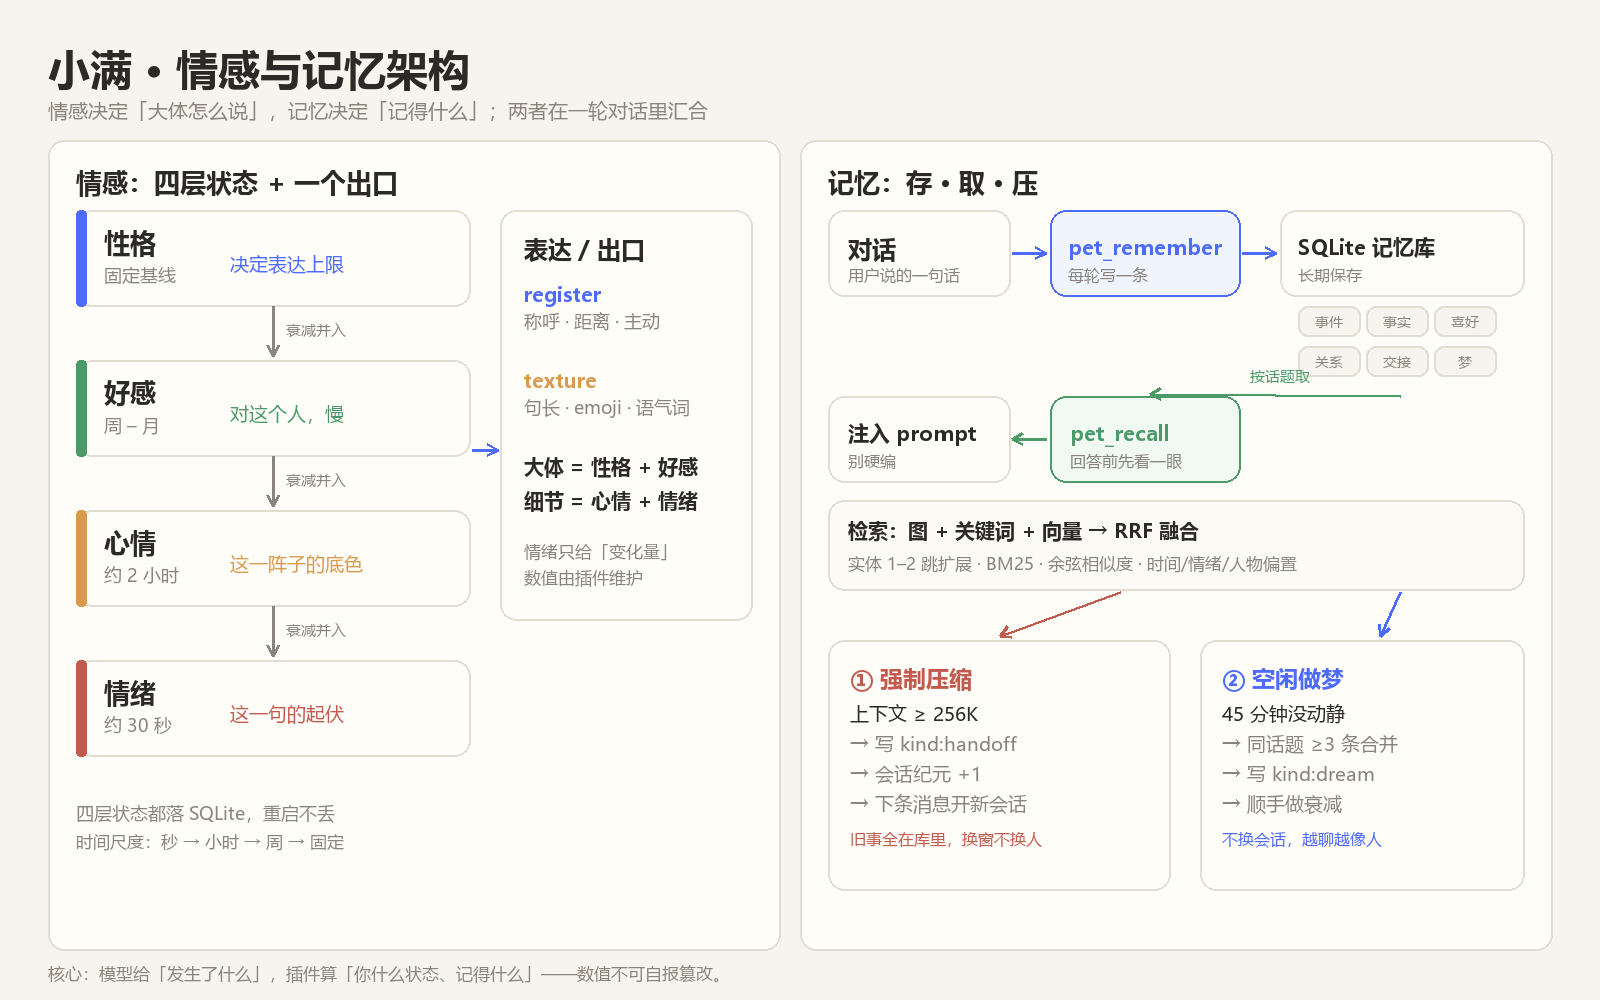
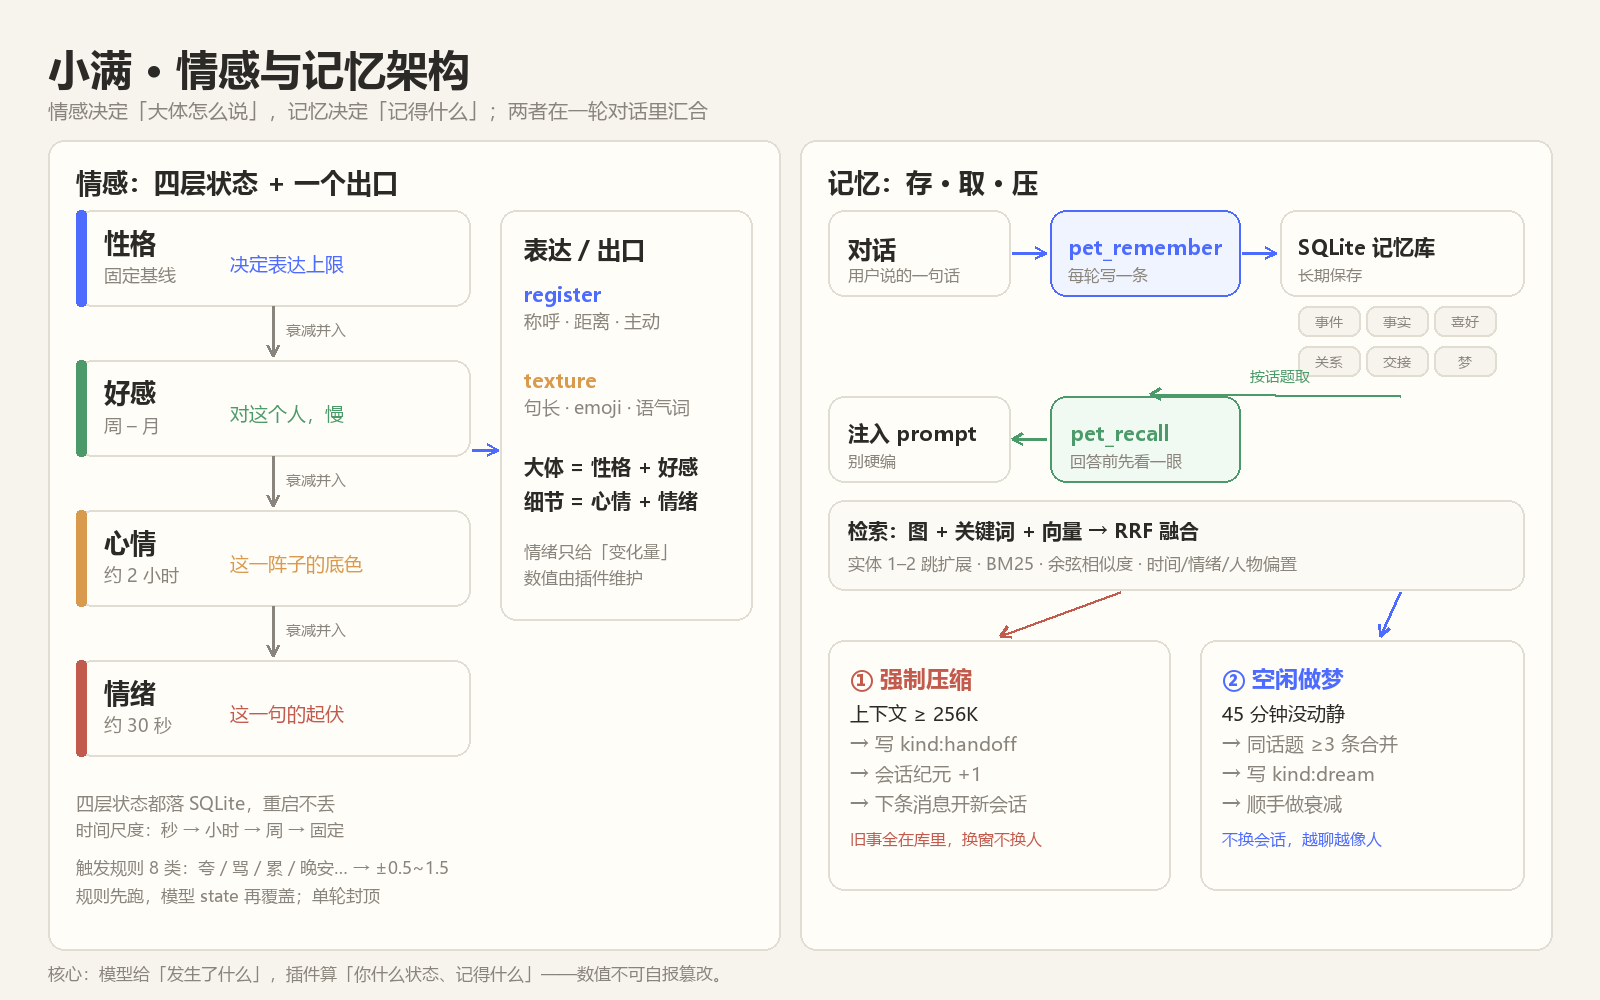
feat(emotion): 补全衰减曲线与触发规则（8 类关键词），更新架构图与文档

Changed region(s): [[0.0312, 0.775, 0.25, 0.899]]

diff --git a/packages/core/src/modules/triggers.js b/packages/core/src/modules/triggers.js
@@ -1,0 +1,41 @@
+// src/modules/triggers.js — 情绪触发规则（确定性关键词层）
+// 作用：给“这一轮发生了什么”一个兜底判断，避免全靠模型自报。
+// 每条规则给一点变化量，实际入账时按 0.5 缩放，防止和模型 state 双重计入。
+
+export const RULES = [
+  { id: 'praise', test: /夸|喜欢你|爱你|想你|抱抱|贴贴|真好/, delta: { mood: 2, affection: 1 }, label: '开心' },
+  { id: 'insult', test: /滚|讨厌|闭嘴|烦死你|废物|骂/, delta: { mood: -3, affection: -1 }, label: '生气' },
+  { id: 'apology', test: /对不起|我错了|抱歉|别生气/, delta: { mood: 1, affection: 1 }, label: '松快' },
+  { id: 'coquette', test: /嘛|好不好|陪我|撒娇|求你了/, delta: { mood: 1, affection: 1 }, label: '松快' },
+  { id: 'tired', test: /累|加班|难受|想哭|撑不住|烦死/, delta: { mood: -2, energy: -2 }, label: '低落' },
+  { id: 'goodnews', test: /开心|太好了|成功了|过了|升职|中奖/, delta: { mood: 2 }, label: '开心' },
+  { id: 'night', test: /晚安|睡了|困了|去睡/, delta: { energy: -1 }, label: '平静' },
+  { id: 'reunion', test: /好久不见|想你了|终于见到/, delta: { mood: 2, affection: 1 }, label: '开心' },
+];
+
+const SCALE = 0.5;
+const round = (n) => (n >= 0 ? Math.round(n) : -Math.round(-n));
+
+/**
+ * 匹配规则，返回 {delta, labels, hits}
+ * 最多命中 max 条，delta 已按 0.5 缩放并取整。
+ */
+export function matchTriggers(text, max = 2) {
+  const s = String(text ?? '');
+  const hits = RULES.filter((r) => r.test.test(s)).slice(0, max);
+  if (!hits.length) return { delta: null, labels: [], hits: [] };
+
+  const delta = { mood: 0, energy: 0, affection: 0 };
+  for (const h of hits) {
+    for (const k of Object.keys(delta)) {
+      delta[k] += round((h.delta[k] || 0) * SCALE);
+    }
+  }
+  for (const k of Object.keys(delta)) if (!delta[k]) delete delta[k];
+
+  return {
+    delta: Object.keys(delta).length ? delta : null,
+    labels: [...new Set(hits.map((h) => h.label).filter(Boolean))],
+    hits: hits.map((h) => h.id),
+  };
+}

diff --git a/packages/plugin/core/modules/triggers.js b/packages/plugin/core/modules/triggers.js
@@ -1,0 +1,41 @@
+// src/modules/triggers.js — 情绪触发规则（确定性关键词层）
+// 作用：给“这一轮发生了什么”一个兜底判断，避免全靠模型自报。
+// 每条规则给一点变化量，实际入账时按 0.5 缩放，防止和模型 state 双重计入。
+
+export const RULES = [
+  { id: 'praise', test: /夸|喜欢你|爱你|想你|抱抱|贴贴|真好/, delta: { mood: 2, affection: 1 }, label: '开心' },
+  { id: 'insult', test: /滚|讨厌|闭嘴|烦死你|废物|骂/, delta: { mood: -3, affection: -1 }, label: '生气' },
+  { id: 'apology', test: /对不起|我错了|抱歉|别生气/, delta: { mood: 1, affection: 1 }, label: '松快' },
+  { id: 'coquette', test: /嘛|好不好|陪我|撒娇|求你了/, delta: { mood: 1, affection: 1 }, label: '松快' },
+  { id: 'tired', test: /累|加班|难受|想哭|撑不住|烦死/, delta: { mood: -2, energy: -2 }, label: '低落' },
+  { id: 'goodnews', test: /开心|太好了|成功了|过了|升职|中奖/, delta: { mood: 2 }, label: '开心' },
+  { id: 'night', test: /晚安|睡了|困了|去睡/, delta: { energy: -1 }, label: '平静' },
+  { id: 'reunion', test: /好久不见|想你了|终于见到/, delta: { mood: 2, affection: 1 }, label: '开心' },
+];
+
+const SCALE = 0.5;
+const round = (n) => (n >= 0 ? Math.round(n) : -Math.round(-n));
+
+/**
+ * 匹配规则，返回 {delta, labels, hits}
+ * 最多命中 max 条，delta 已按 0.5 缩放并取整。
+ */
+export function matchTriggers(text, max = 2) {
+  const s = String(text ?? '');
+  const hits = RULES.filter((r) => r.test.test(s)).slice(0, max);
+  if (!hits.length) return { delta: null, labels: [], hits: [] };
+
+  const delta = { mood: 0, energy: 0, affection: 0 };
+  for (const h of hits) {
+    for (const k of Object.keys(delta)) {
+      delta[k] += round((h.delta[k] || 0) * SCALE);
+    }
+  }
+  for (const k of Object.keys(delta)) if (!delta[k]) delete delta[k];
+
+  return {
+    delta: Object.keys(delta).length ? delta : null,
+    labels: [...new Set(hits.map((h) => h.label).filter(Boolean))],
+    hits: hits.map((h) => h.id),
+  };
+}

diff --git a/packages/core/src/index.js b/packages/core/src/index.js
@@ -11,6 +11,7 @@ import { buildPrompt } from './core/prompt.js';
 import { createLlm } from './core/llm.js';
 import { createSticker } from './modules/sticker.js';
 import { appendEmoji } from './modules/emoji.js';
+import { matchTriggers } from './modules/triggers.js';
 import { fileURLToPath } from 'node:url';
 
 function takeBlock(raw, name) {
@@ -150,6 +151,11 @@ export function createPet({ dbFile = ':memory:', personaFile, llm, budget = DEFA
     }
     style.observe(id, input);
     affect.tick(id, now());
+
+    // 2.5) 确定性触发规则：给这一轮一个兜底判断（模型 state 仍可覆盖）
+    const trig = matchTriggers(input);
+    if (trig.delta) affect.apply(id, trig.delta, 'rule');
+    if (trig.labels.length) affect.setEmotion(id, trig.labels[0], 40);
 
     const recalled = memory.recall(id, [input, ...shortterm.messages(id).filter((m) => m.role === 'user').slice(-2).map((m) => m.content)].join(' '), { limit: 3 }) || {};
     const items = recalled.items || [];

diff --git a/packages/plugin/core/index.js b/packages/plugin/core/index.js
@@ -11,6 +11,7 @@ import { buildPrompt } from './core/prompt.js';
 import { createLlm } from './core/llm.js';
 import { createSticker } from './modules/sticker.js';
 import { appendEmoji } from './modules/emoji.js';
+import { matchTriggers } from './modules/triggers.js';
 import { fileURLToPath } from 'node:url';
 
 function takeBlock(raw, name) {
@@ -150,6 +151,11 @@ export function createPet({ dbFile = ':memory:', personaFile, llm, budget = DEFA
     }
     style.observe(id, input);
     affect.tick(id, now());
+
+    // 2.5) 确定性触发规则：给这一轮一个兜底判断（模型 state 仍可覆盖）
+    const trig = matchTriggers(input);
+    if (trig.delta) affect.apply(id, trig.delta, 'rule');
+    if (trig.labels.length) affect.setEmotion(id, trig.labels[0], 40);
 
     const recalled = memory.recall(id, [input, ...shortterm.messages(id).filter((m) => m.role === 'user').slice(-2).map((m) => m.content)].join(' '), { limit: 3 }) || {};
     const items = recalled.items || [];

diff --git a/docs/make-architecture.py b/docs/make-architecture.py
@@ -153,8 +153,10 @@ arrow(1400, 592, 1380, 636, BLUE)
 text(48, 962, "核心：模型给「发生了什么」，插件算「你什么状态、记得什么」——数值不可自报篡改。", 17, GRAY)
 
 # 左侧补充说明
-text(76, 800, "四层状态都落 SQLite，重启不丢", 18, GRAY)
-text(76, 830, "时间尺度：秒 → 小时 → 周 → 固定", 17, GRAY)
+text(76, 790, "四层状态都落 SQLite，重启不丢", 18, GRAY)
+text(76, 818, "时间尺度：秒 → 小时 → 周 → 固定", 17, GRAY)
+text(76, 856, "触发规则 8 类：夸 / 骂 / 累 / 晚安… → ±0.5~1.5", 17, GRAY)
+text(76, 884, "规则先跑，模型 state 再覆盖；单轮封顶", 17, GRAY)
 
 img.save(os.path.join(os.path.dirname(__file__), "architecture.png"))
 print("saved")

diff --git a/docs/EMOTION.md b/docs/EMOTION.md
@@ -1,0 +1,83 @@
+# 情感设计：四层、衰减曲线与触发规则
+
+这份文档补上「情感」缺的两块：**每一层怎么衰减**、**什么话会触发什么变化**。
+
+## 一、四层状态
+
+| 层 | 变量 | 范围 | 时间常数 τ | 半衰期 | 谁能改 |
+|---|---|---|---|---|---|
+| 情绪 | `emotion.intensity` + label | 0–100 | 30 秒 | ≈ 20.8 秒 | 规则 / 模型 / 衰减 |
+| 心情 | `mood` | 0–100 | 2 小时 | ≈ 1.39 小时 | 规则 / 模型 |
+| 精力 | `energy` | 0–100 | 3 小时 | ≈ 2.08 小时 | 规则 / 模型 |
+| 好感 | `affection` | 0–100 | 按事件（EMA α=0.05） | 约 30 天量级 | 规则 / 模型 |
+| 性格 | 提示词里的固定描述 | — | 不变 | — | 只读 |
+
+数值全部存 SQLite（`persons` 表），重启不丢；模型只能给「变化量」，不能直接写值。
+
+## 二、衰减曲线
+
+全部是指数衰减：`x(t) = 目标 + (x₀ − 目标) · e^(−t/τ)`。
+
+```
+心情：mood ← mood + (baseline − mood) · (1 − e^(−Δt/2h))
+基线：baseline = 50 + 0.2 × (affection − 50)     // 越喜欢，基线越高
+精力：energy ← energy + (50 − energy) · (1 − e^(−Δt/3h))
+情绪：I ← I · e^(−Δt/30s)，损耗的强度按 0.3 并入 mood
+好感：affection ← affection + 0.05 × (目标 − affection)   // 每次事件，不是按时间
+```
+
+半衰期换算（`t½ = τ·ln2`）：
+
+| 层 | τ | 半衰期 | 1 小时后剩多少 |
+|---|---|---|---|
+| 情绪 | 30 s | 20.8 s | ≈ 0 |
+| 心情 | 2 h | 1.39 h | 约 70% 的偏离量 |
+| 精力 | 3 h | 2.08 h | 约 79% |
+| 好感 | 事件驱动 | — | 几乎不动 |
+
+举例：被骂一句，心情从 50 掉到 47（−3）。
+
+```
+t=0      47.0
+t=30s    47.0   （心情几乎不动，情绪先散）
+t=5min   47.0
+t=1h     48.9   （回了一半多）
+t=6h     49.9   （基本回到基线）
+```
+
+情绪则是几秒就没了：`I=60` 的情绪，30 秒后剩 22，60 秒后剩 8。
+
+## 三、触发规则（确定性层）
+
+规则在模型之前跑，给一个兜底判断；命中最多 2 条，变化量按 **0.5 缩放**，避免和模型 state 双重计入。
+
+| 规则 | 触发词（示例） | 变化 | 标签 |
+|---|---|---|---|
+| `praise` | 夸、喜欢你、爱你、想你、抱抱、真好 | mood +1，affection +0.5 | 开心 |
+| `insult` | 滚、讨厌、闭嘴、废物、骂 | mood −1.5，affection −0.5 | 生气 |
+| `apology` | 对不起、我错了、别生气 | mood +0.5，affection +0.5 | 松快 |
+| `coquette` | 嘛、好不好、陪我、撒娇 | mood +0.5，affection +0.5 | 松快 |
+| `tired` | 累、加班、难受、想哭、撑不住 | mood −1，energy −1 | 低落 |
+| `goodnews` | 开心、太好了、成功了、升职 | mood +1 | 开心 |
+| `night` | 晚安、睡了、困了 | energy −0.5 | 平静 |
+| `reunion` | 好久不见、想你了 | mood +1，affection +0.5 | 开心 |
+
+之后模型可以给 `state` 覆盖：单轮上限 `mood ∈ [−6, +3]`、`energy` 减半后 `[−5, +1]`、`affection` 原值；中性/难受的回合不接受正向 mood。所有值最终钳在 0–100。
+
+## 四、优先级
+
+```
+1. 规则层（关键词，±0.5~1.5）        ← 兜底，保证不会完全没反应
+2. 模型 state（语义判断，上限 ±6）    ← 主判断
+3. 时间衰减（每次 tick 结算）        ← 负责回落
+4. 情绪标签：模型给 valence 则按 valence 定，否则用规则标签
+```
+
+## 五、为什么这样分层
+
+- **情绪**是「这一句的反应」，只影响标点、语气词、表情；
+- **心情**是「这一阵子的底色」，影响话多话少、热不热络；
+- **好感**是「对这个人」，影响称呼、距离、主动性；
+- **性格**是「它本来是谁」，决定上面三层的活动范围。
+
+一句话：**性格和好感决定大体，心情和情绪决定细节。**

diff --git a/README.md b/README.md
@@ -2,7 +2,7 @@
 
 ![version](https://img.shields.io/badge/version-v0.2.0-4D6BFE)
 ![license](https://img.shields.io/badge/license-MIT-4C9A6A)
-![tests](https://img.shields.io/badge/tests-40%20passing-4C9A6A)
+![tests](https://img.shields.io/badge/tests-44-4C9A6A)
 
 把「人设 + 人味 + 情绪/记忆 + 表情包 + 微信通道」打包成一个 DSH 插件，装一次就能在微信里聊。
 
@@ -31,9 +31,15 @@
 | 跨对话记忆 | 事件、事实、喜好、关系四类，按话题混合召回（图 + 关键词 + 向量，RRF 融合） |
 | 强制压缩 | 上下文到 256K（可调）自动归档：写一条 `kind:handoff` 交接记忆，下条消息开新会话 |
 | 空闲做梦 | 45 分钟没动静，把同话题 ≥3 条的零散事件合并成 `kind:dream`，并做衰减 |
-| 情绪四层 | 秒级情绪 → 小时级心情 → 长期好感 → 固定性格；数值插件维护，模型只能给变化量 |
+| 情绪四层 | 秒级情绪 → 小时级心情 → 长期好感 → 固定性格；每条都有明确的时间常数与半衰期，详见 [docs/EMOTION.md](docs/EMOTION.md) |
+| 情绪触发 | 8 类关键词规则兜底（夸/骂/累/晚安…），模型 state 再覆盖；单轮有上限，不越界 |
 | 性格漂移 | 句长、emoji、语气词等 6 维，±10% 内向对方靠拢，长期不聊回弹 |
 | 人味规则 | 1–3 句、不寒暄不总结、像微信打字、不每句反问 |
+
+## 文档
+
+- [docs/EMOTION.md](docs/EMOTION.md)：四层状态、衰减曲线、触发规则、优先级
+- [docs/DESIGN.md](docs/DESIGN.md)：整体设计（关系图 + RAG、渐进披露、上下文预算）
 
 ## 目录
 
